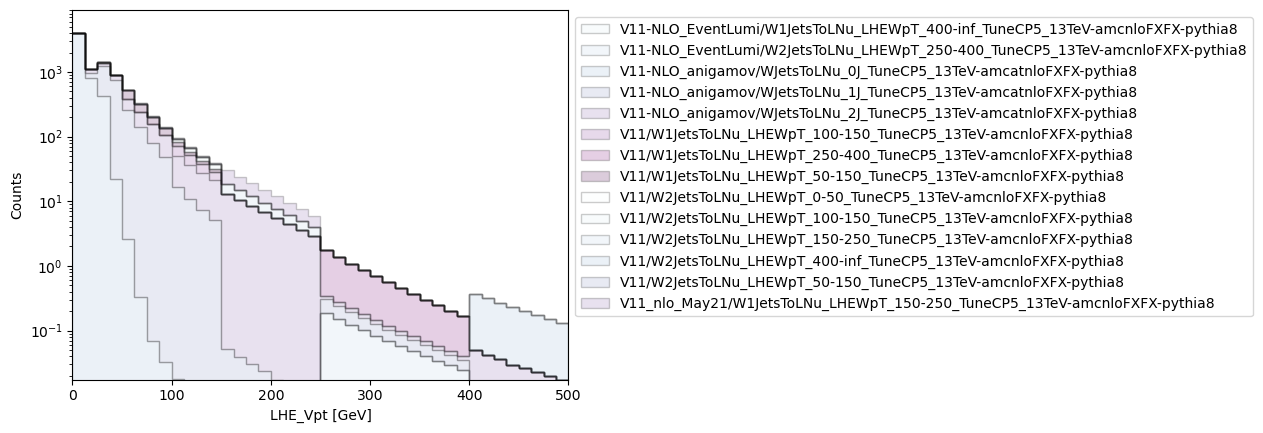
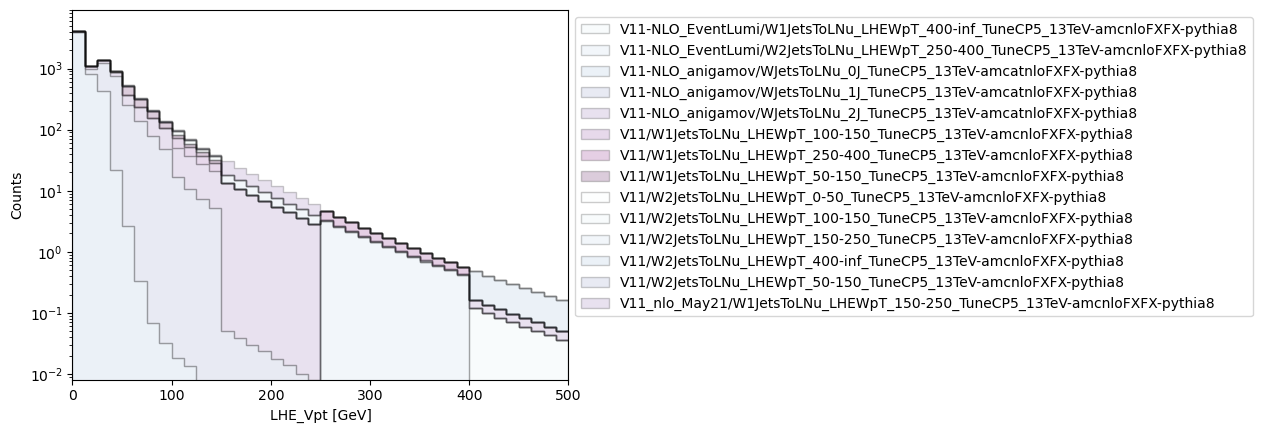
Fix genEventSumw bug by hand

diff --git a/ComputeStitchWeights.py b/ComputeStitchWeights.py
@@ -87,7 +87,7 @@ if __name__ == "__main__":
         fileset[sample] = samplesToRun[sample]["filelist"]
 
     cluster = LPCCondorCluster()
-    cluster.adapt(minimum=1,maximum=30)
+    cluster.adapt(minimum=1,maximum=50)
     client = Client(cluster)
     exe_args = {
     "client": client,
@@ -129,7 +129,18 @@ if __name__ == "__main__":
 
         leg = ax.legend(bbox_to_anchor=(1,1), loc="upper left")
         plt.savefig("Vptstitched.png",bbox_inches="tight")
+        plt.clf()
 
+    from cycler import cycler
+    fig, ax = plt.subplots()
+    colors = ['#f7fcfd','#e0ecf4','#bfd3e6','#9ebcda','#8c96c6','#8c6bb1','#88419d','#810f7c','#4d004b']
+    ax.set_prop_cycle(cycler('color',colors))
+    ax.semilogy(True)
+    hist.plot1d(output["LHE_Vpt"],stack=False,ax=ax,line_opts=None,fill_opts={'alpha':0.2,'edgecolor': (0,0,0,0.3)},clear=False)
+    # hist.plot2d(output["LHE_Vpt"],ax=ax,xaxis="LHE_Vpt",clear=False)
+
+    leg = ax.legend(bbox_to_anchor=(1,1), loc="upper left")
+    plt.savefig("Vpt_notStitched.png",bbox_inches="tight")
 
 
     exportDict = {}
@@ -151,9 +162,12 @@ if __name__ == "__main__":
         for i,row in enumerate(weightList):
             exportDict[sample]["Vpt"+VptBins[i]] = {}
             for j,column in enumerate(row):
-                fraction = column/eventTotals.values()[()][i][j]
-                if fraction != fraction:
-                    fraction = 0 #protect against 0/0 NaN
+                if eventTotals.values()[()][i][j]!=0:
+                    fraction = column/eventTotals.values()[()][i][j]
+                else:
+                    fraction = 0
+                #if fraction != fraction:
+                    #fraction = 0 #protect against 0/0 NaN
                 exportDict[sample]["Vpt"+VptBins[i]]["NpNLO"+NpNLOBins[j]] = fraction
 
 

diff --git a/FetchSamplePaths.py b/FetchSamplePaths.py
@@ -80,17 +80,17 @@ if __name__ == "__main__":
                    ],
         "Wln2017": [
                 #Sample("V11/W1JetsToLNu_LHEWpT_0-50_TuneCP5_13TeV-amcnloFXFX-pythia8",0)
+                Sample("V11/W1JetsToLNu_LHEWpT_50-150_TuneCP5_13TeV-amcnloFXFX-pythia8",2661),
                 Sample("V11/W1JetsToLNu_LHEWpT_100-150_TuneCP5_13TeV-amcnloFXFX-pythia8",286.1),
                 Sample("V11_nlo_May21/W1JetsToLNu_LHEWpT_150-250_TuneCP5_13TeV-amcnloFXFX-pythia8",71.9),
                 Sample("V11/W1JetsToLNu_LHEWpT_250-400_TuneCP5_13TeV-amcnloFXFX-pythia8",8.05),
                 Sample("V11-NLO_EventLumi/W1JetsToLNu_LHEWpT_400-inf_TuneCP5_13TeV-amcnloFXFX-pythia8",.885),
-                Sample("V11/W1JetsToLNu_LHEWpT_50-150_TuneCP5_13TeV-amcnloFXFX-pythia8",2661),
                 Sample("V11/W2JetsToLNu_LHEWpT_0-50_TuneCP5_13TeV-amcnloFXFX-pythia8",1615),
+                Sample("V11/W2JetsToLNu_LHEWpT_50-150_TuneCP5_13TeV-amcnloFXFX-pythia8",1331),
                 Sample("V11/W2JetsToLNu_LHEWpT_100-150_TuneCP5_13TeV-amcnloFXFX-pythia8",277.7),
                 Sample("V11/W2JetsToLNu_LHEWpT_150-250_TuneCP5_13TeV-amcnloFXFX-pythia8",105.9),
                 Sample("V11-NLO_EventLumi/W2JetsToLNu_LHEWpT_250-400_TuneCP5_13TeV-amcnloFXFX-pythia8",18.67),
                 Sample("V11/W2JetsToLNu_LHEWpT_400-inf_TuneCP5_13TeV-amcnloFXFX-pythia8",3.037),
-                Sample("V11/W2JetsToLNu_LHEWpT_50-150_TuneCP5_13TeV-amcnloFXFX-pythia8",1331),
                 Sample("V11-NLO_anigamov/WJetsToLNu_0J_TuneCP5_13TeV-amcatnloFXFX-pythia8",54500),
                 Sample("V11-NLO_anigamov/WJetsToLNu_1J_TuneCP5_13TeV-amcatnloFXFX-pythia8",8750),
                 Sample("V11-NLO_anigamov/WJetsToLNu_2J_TuneCP5_13TeV-amcatnloFXFX-pythia8",3010),
